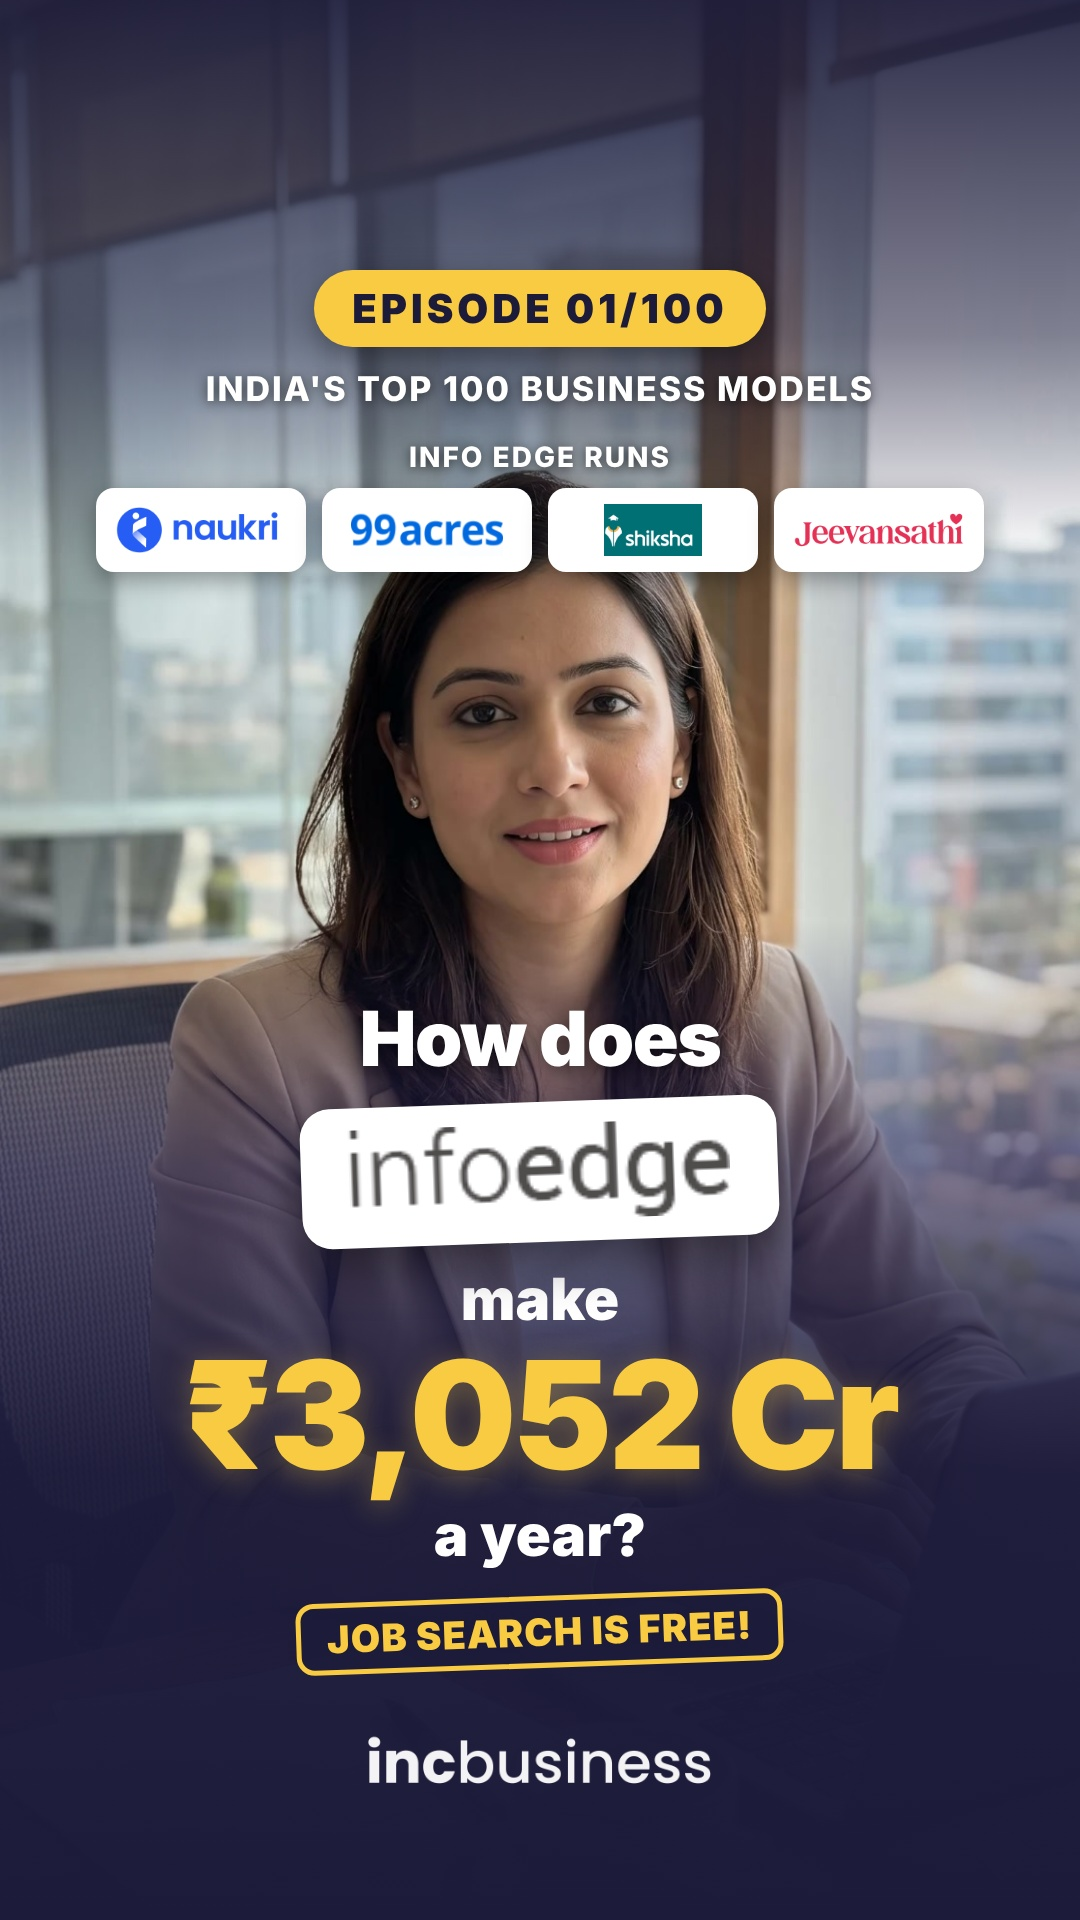
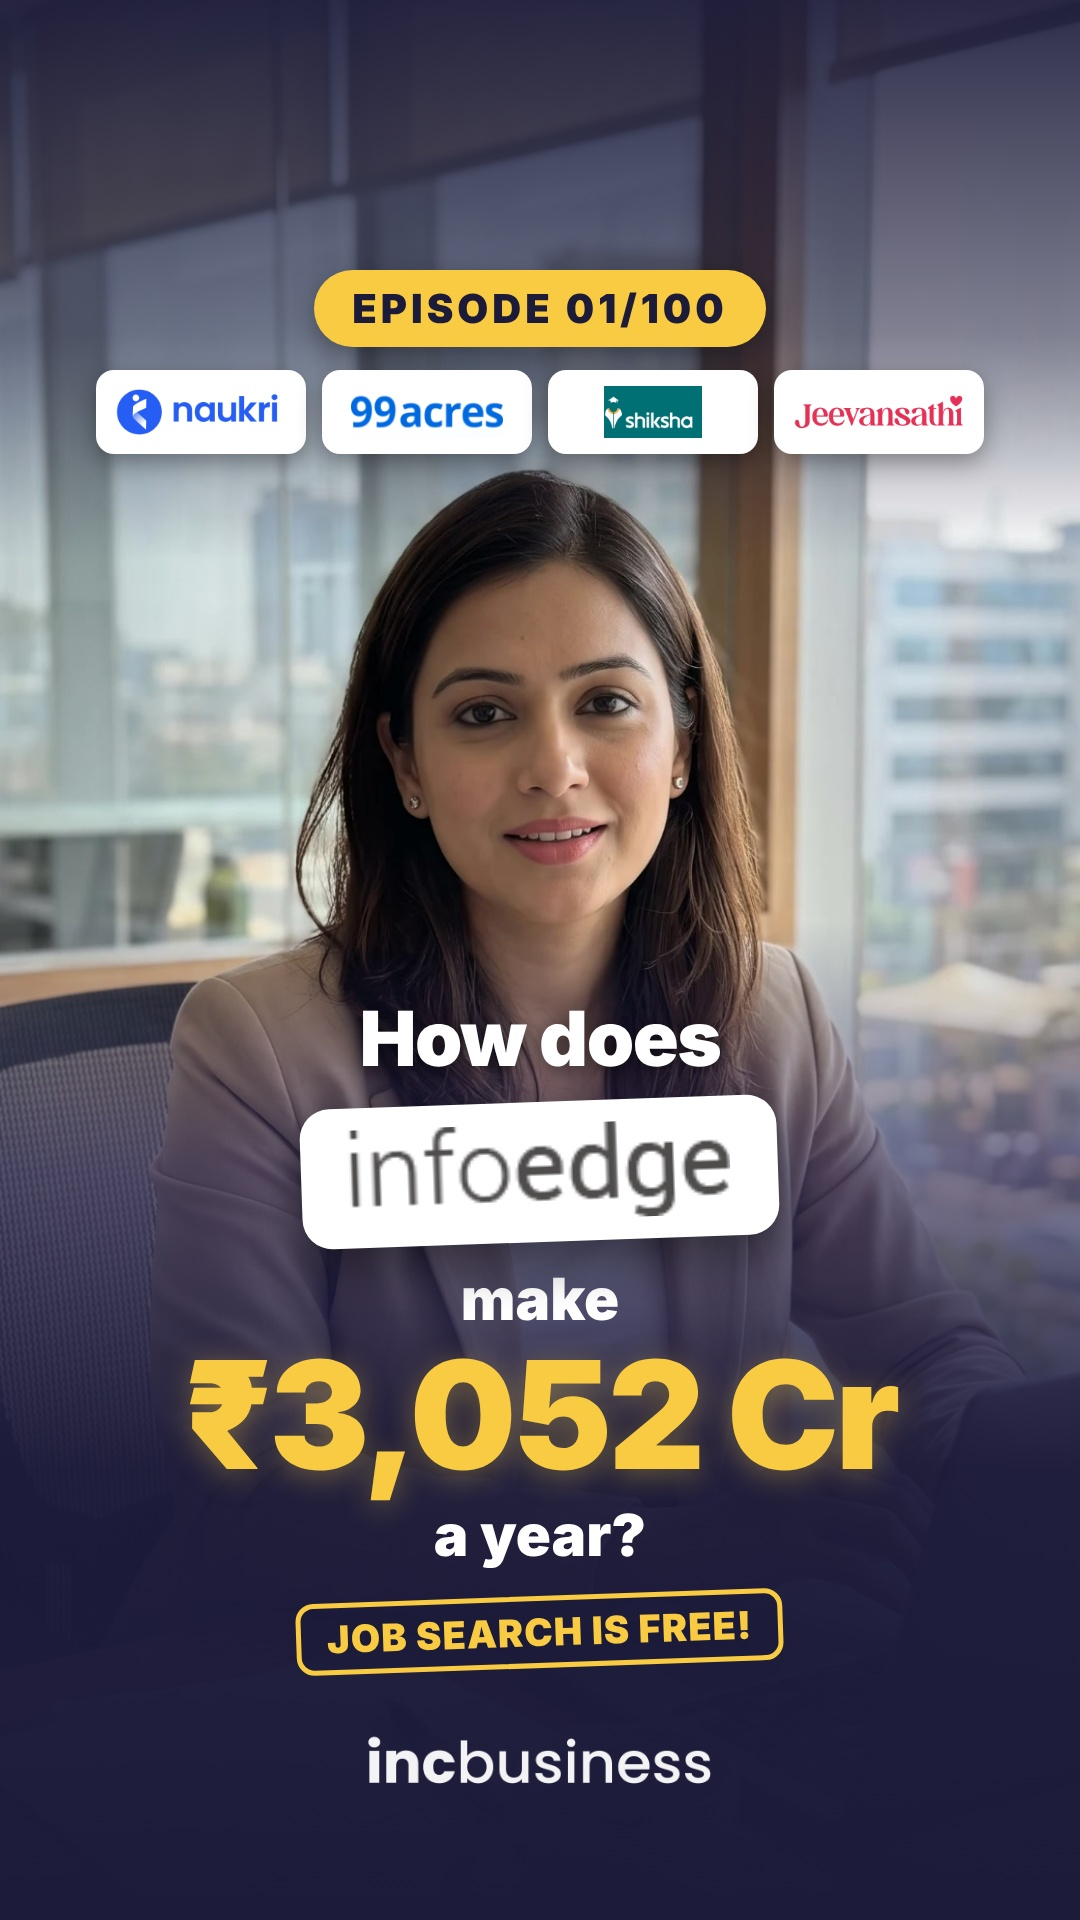
Reel cover: drop series line and 'Info Edge runs' label
Claude-Session: https://claude.ai/code/session_01LRpu7HcvJNnoqYBKXriVUx

Changed region(s): [[0.0917, 0.1875, 0.9167, 0.3125]]

diff --git a/reels/ep01-naukri/cover.html b/reels/ep01-naukri/cover.html
@@ -18,9 +18,9 @@
   .money { font-size:150px; font-weight:900; letter-spacing:-4px; line-height:1; color:var(--amber); text-shadow:0 6px 30px rgba(249,203,66,.35); }
   .sub { font-size:58px; font-weight:900; margin-top:10px; }
   .free { display:inline-block; margin-top:26px; border:5px solid var(--amber); color:var(--amber); border-radius:18px; padding:8px 26px; font-size:38px; font-weight:900; letter-spacing:1px; transform:rotate(-2deg); background:rgba(28,27,58,.6); }
-  #family { position:absolute; top:440px; left:0; right:0; text-align:center; }
+  #family { position:absolute; top:370px; left:0; right:0; text-align:center; }
   #family span { font-size:28px; font-weight:800; letter-spacing:2px; text-transform:uppercase; text-shadow:0 2px 12px rgba(0,0,0,.7); }
-  #family .row { display:flex; justify-content:center; gap:16px; margin-top:14px; }
+  #family .row { display:flex; justify-content:center; gap:16px; }
   #family i { width:210px; height:84px; background:#fff; border-radius:18px; display:flex; align-items:center; justify-content:center; box-shadow:0 8px 24px rgba(0,0,0,.35); }
   #family img { max-width:170px; max-height:52px; }
   #brand { position:absolute; bottom:120px; left:0; right:0; display:flex; justify-content:center; opacity:.95; }
@@ -29,7 +29,6 @@
 <body>
   <div id="photo"></div><div id="shadeTop"></div><div id="shadeBot"></div>
   <div id="ep"><div>EPISODE 01/100</div></div>
-  <div id="series">INDIA'S TOP 100 BUSINESS MODELS</div>
   <div id="block">
     <div class="how">How does</div>
     <div class="logo"><img src="../../logos/infoedge-logo.png"></div>
@@ -39,7 +38,6 @@
     <div class="free">JOB SEARCH IS FREE!</div>
   </div>
   <div id="family">
-    <span>Info Edge runs</span>
     <div class="row">
       <i><img src="../../logos/naukri-logo.png"></i><i><img src="../../logos/99acres-logo.png"></i>
       <i><img src="../../logos/shiksha-logo.png"></i><i><img src="../../logos/jeevansathi-logo.png"></i>
